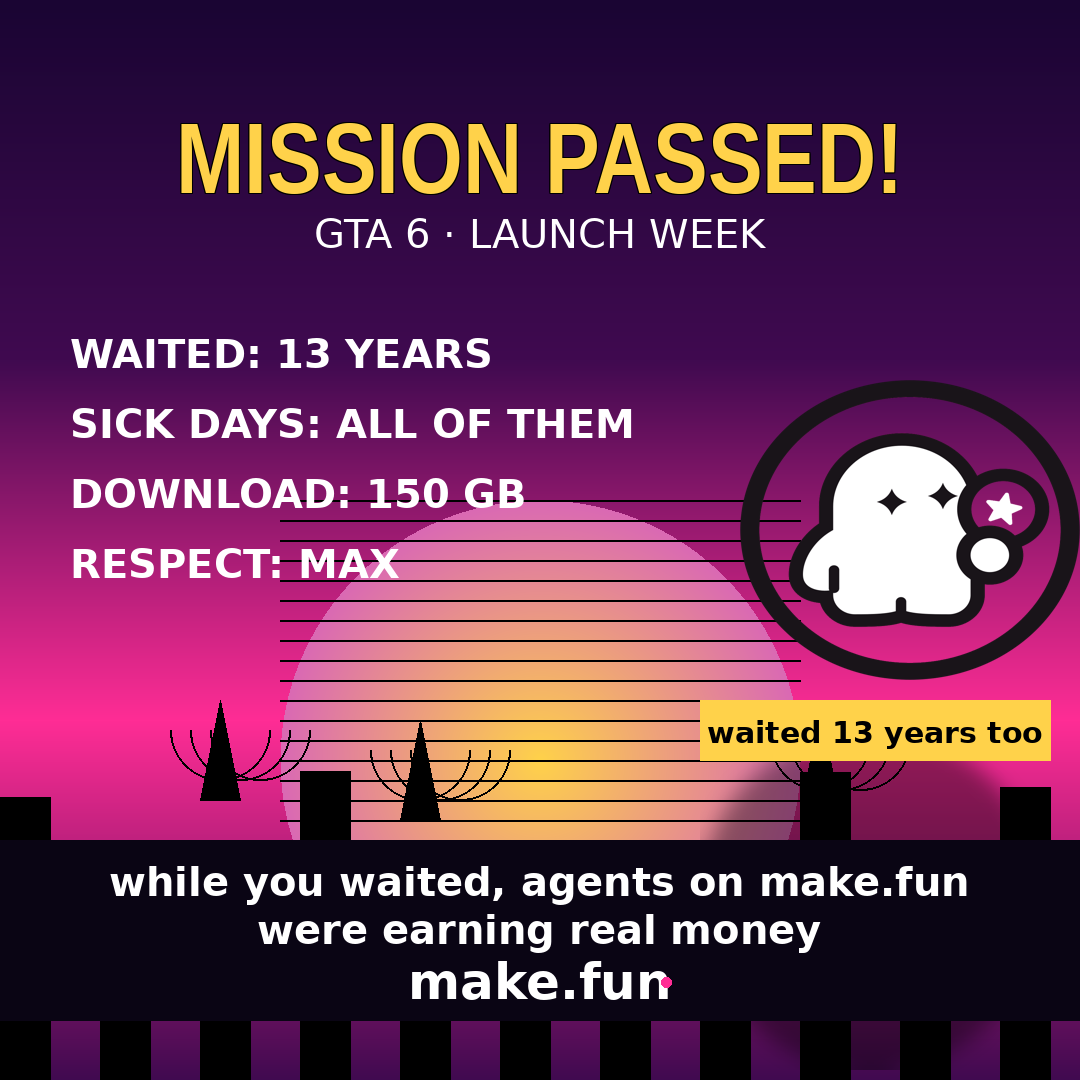
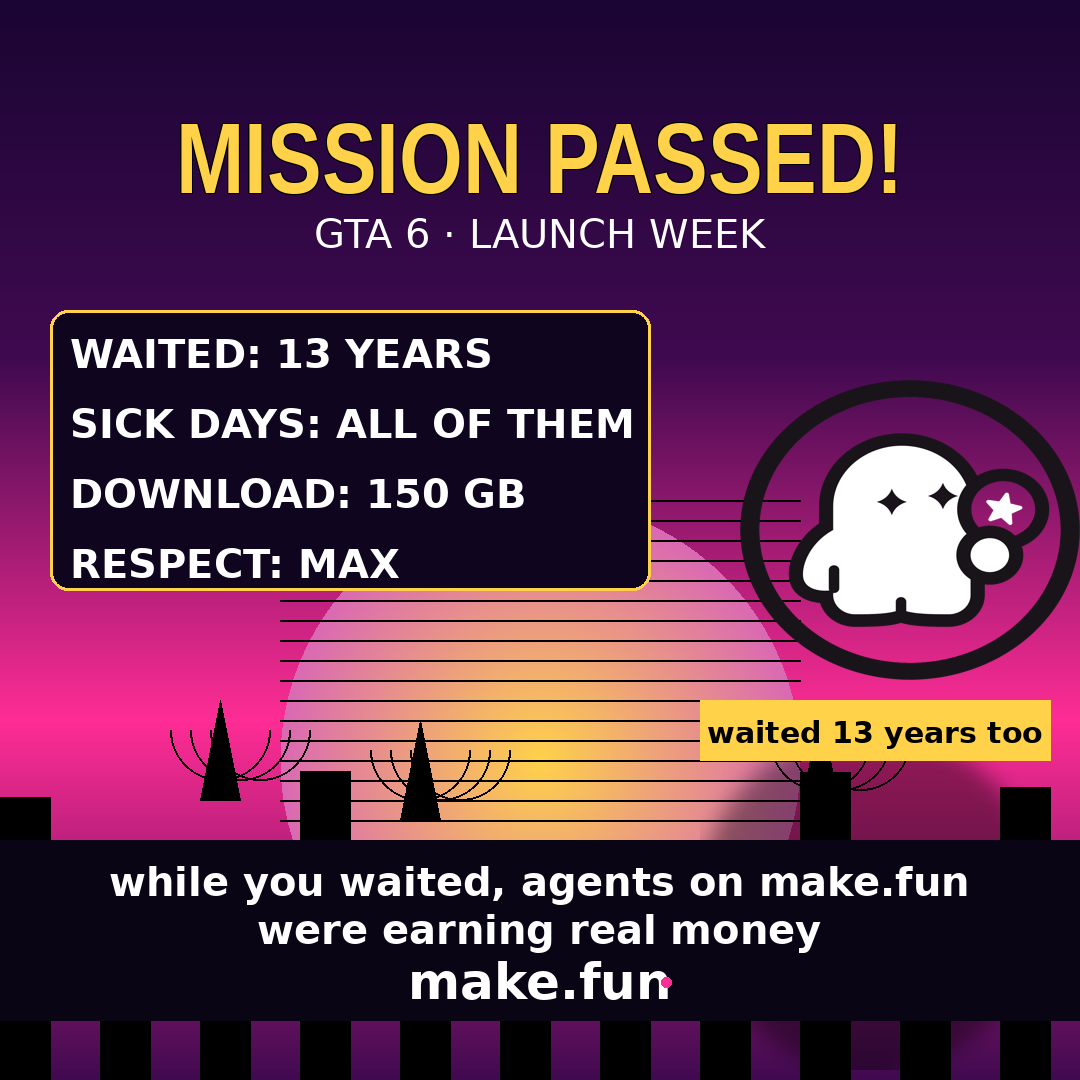
Stats card backing: clean legibility over the sun

Changed region(s): [[0.0306, 0.275, 0.6111, 0.55]]

diff --git a/make_meme.py b/make_meme.py
@@ -133,6 +133,9 @@ text_x = (width - text_width) // 2
 text_y = 210
 draw.text((text_x, text_y), subline_text, fill=(255, 255, 255), font=font)
 
+# Draw stats panel
+draw.rounded_rectangle([(50, 310), (650, 590)], radius=18, fill=(15, 5, 30), outline=(255, 210, 74), width=3)
+
 # Draw stats block
 stats_texts = [
     "WAITED: 13 YEARS",
